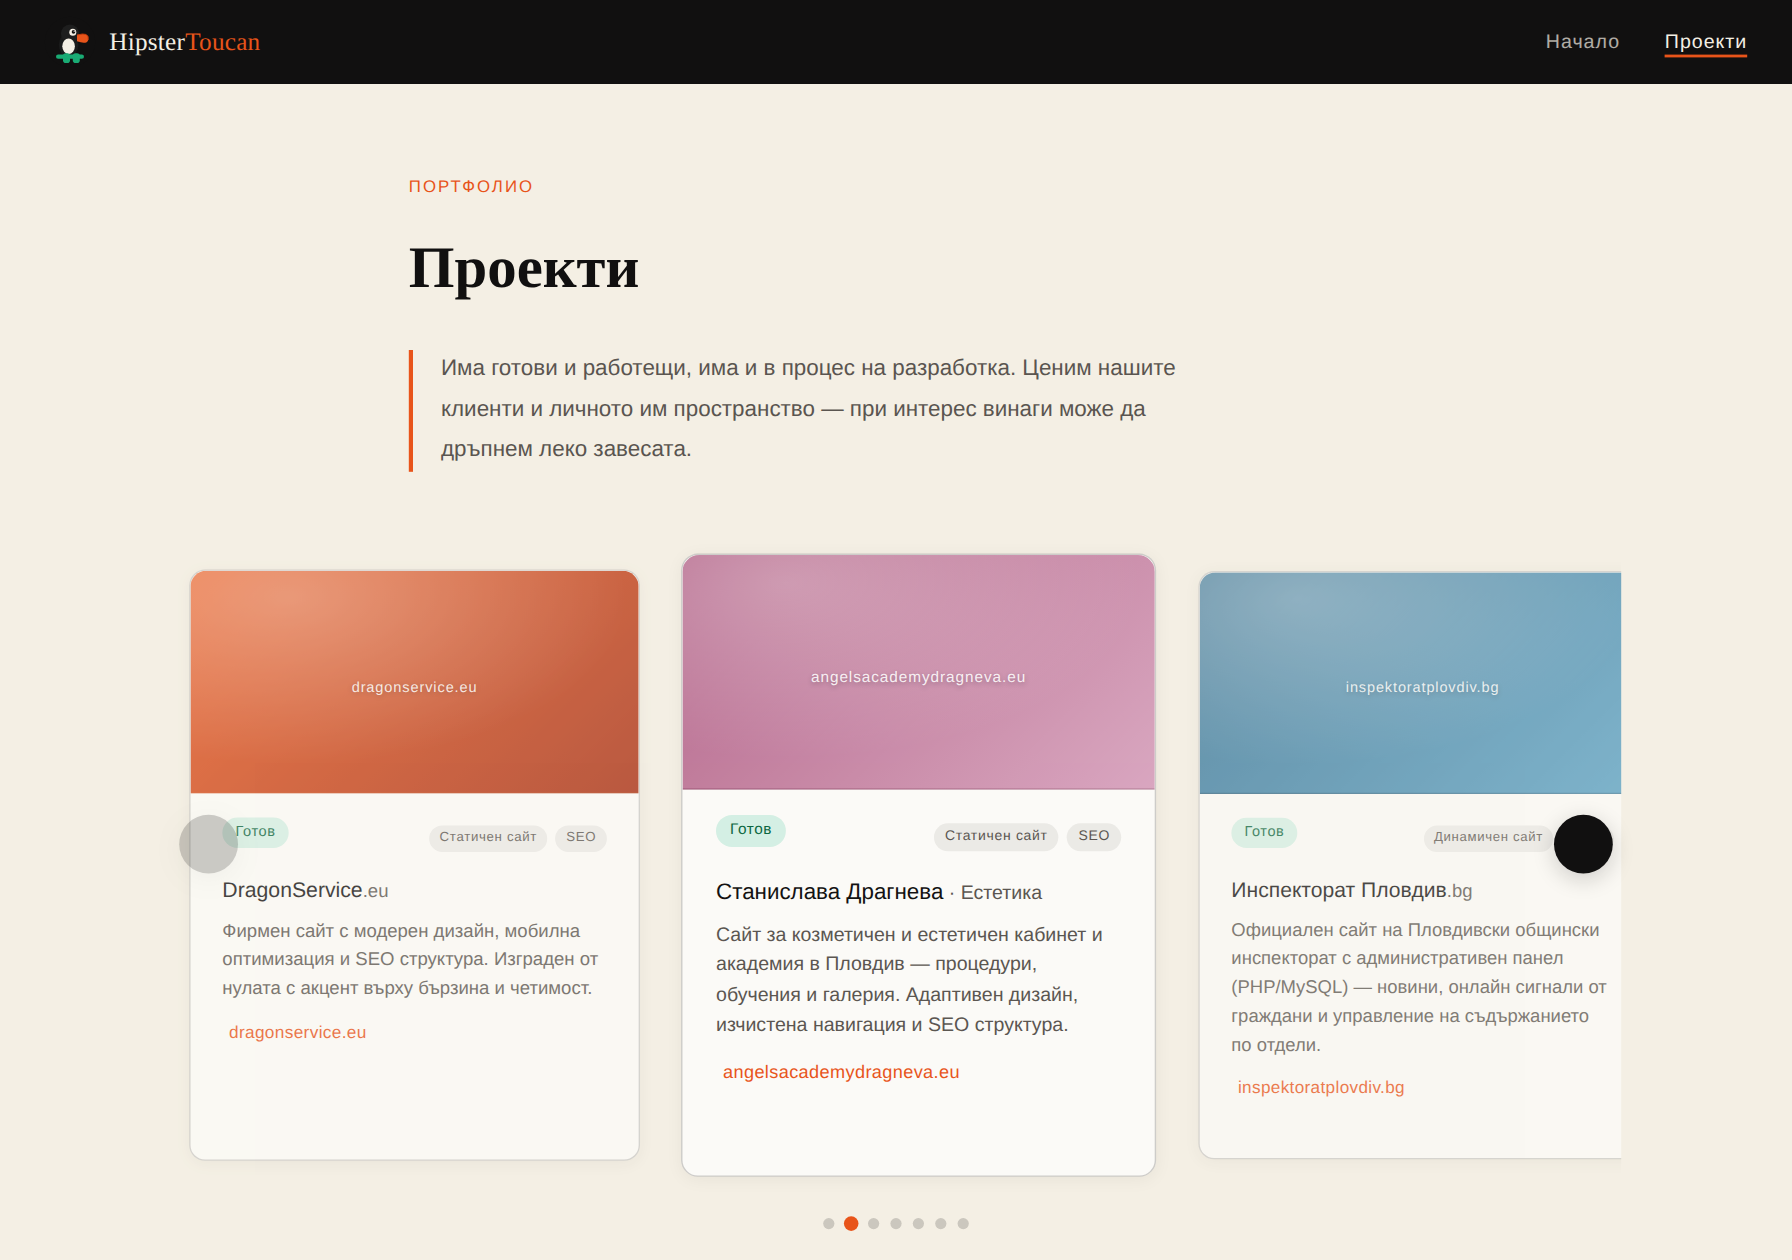
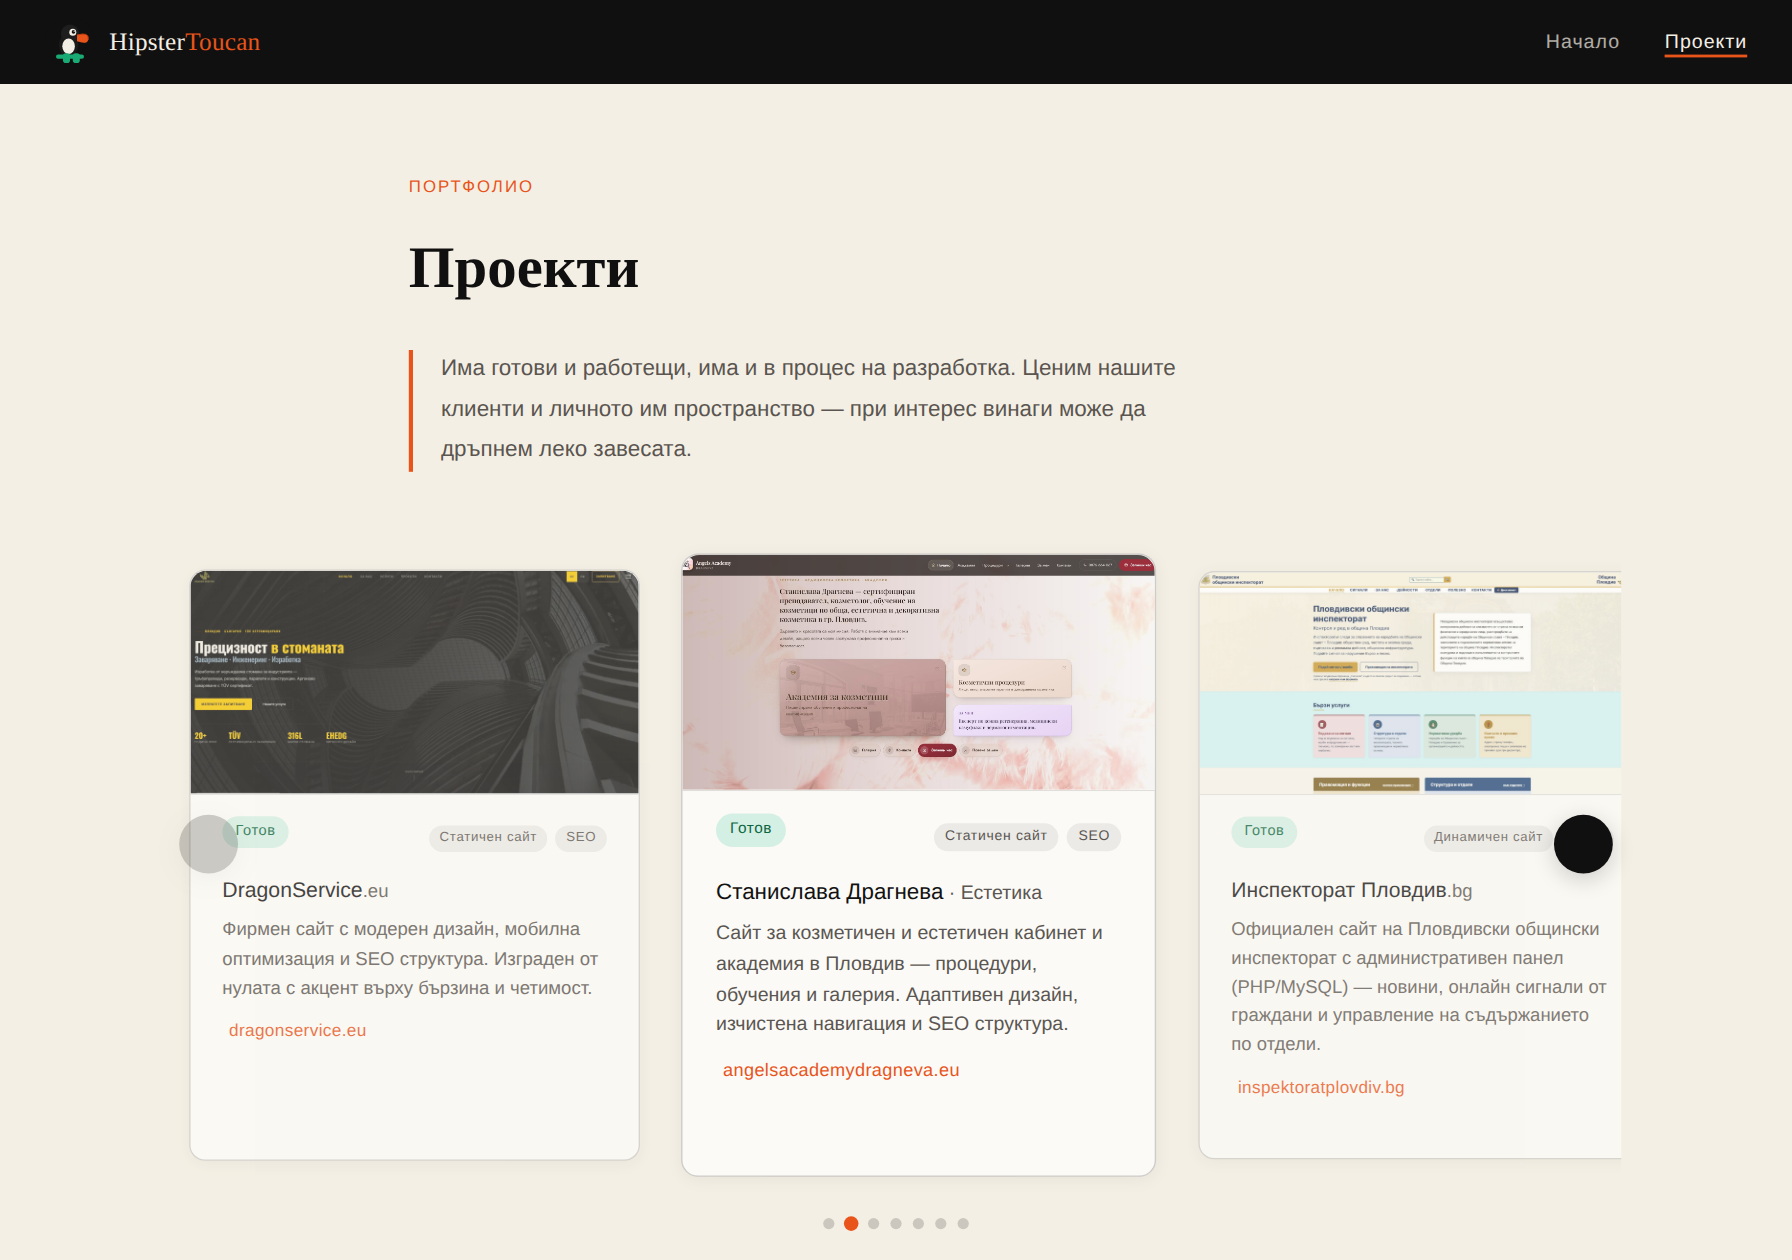
нови карти

diff --git a/projects.html b/projects.html
@@ -72,9 +72,8 @@
 
           <!-- DragonService -->
           <div class="project-card project-card--featured">
-            <div class="project-cover project-cover--drag" aria-hidden="true">
-              <i class="ti ti-car"></i>
-              <span class="project-cover-label">dragonservice.eu</span>
+            <div class="project-card-image">
+              <img src="images/dragonservice.jpg" alt="DragonService — начална страница на сайта" loading="lazy">
             </div>
             <div class="project-card-header">
               <span class="badge badge-done">Готов</span>
@@ -93,9 +92,8 @@
 
           <!-- SDMedAesthetics -->
           <div class="project-card project-card--featured">
-            <div class="project-cover project-cover--sd" aria-hidden="true">
-              <i class="ti ti-sparkles"></i>
-              <span class="project-cover-label">angelsacademydragneva.eu</span>
+            <div class="project-card-image">
+              <img src="images/angelsacademydragneva.jpg" alt="Станислава Драгнева — начална страница на сайта" loading="lazy">
             </div>
             <div class="project-card-header">
               <span class="badge badge-done">Готов</span>
@@ -114,9 +112,8 @@
 
           <!-- Инспекторат Пловдив -->
           <div class="project-card project-card--featured">
-            <div class="project-cover project-cover--insp" aria-hidden="true">
-              <i class="ti ti-shield-check"></i>
-              <span class="project-cover-label">inspektoratplovdiv.bg</span>
+            <div class="project-card-image">
+              <img src="images/inspektoratplovdiv.bg.jpg" alt="Пловдивски общински инспекторат — начална страница на сайта" loading="lazy">
             </div>
             <div class="project-card-header">
               <span class="badge badge-done">Готов</span>
